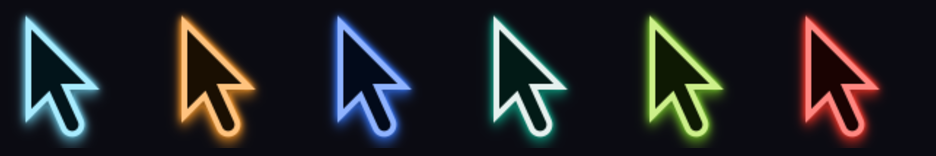
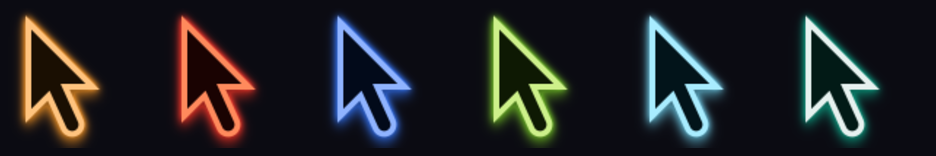
Dillinger reads red, not pink
Its highlight was #ff8781 — hue 3 degrees at 75% lightness, which is pink
whatever the hue says, and it carried into the terminal palette, the
wallpapers, the cursor and the wordmark on the poster and the splash.

A pale tint of a red always goes pink, so the highlight leans towards
orange as it lightens: #ff8a5c, hue 17, still clearly lighter than the
accent it sits against. That is remapped at the base colour rather than in
the palette file, so colors.toml and shell.toml follow it too.

The splash takes a vivid #ff2418 instead: even a warmed highlight is too
light to read as Dillinger's own colour on the boot screen.

diff --git a/tools/make-theme.py b/tools/make-theme.py
@@ -222,6 +222,7 @@ def build(name):
     out = THEMES_DIR / name
     out.mkdir(parents=True, exist_ok=True)
     mapping = palette_for(accent, contrast)
+    mapping.update(TINT.get(name, {}))
 
     for f in ("colors.toml", "shell.toml"):
         text = swap((BASE / f).read_text(), mapping)
@@ -283,6 +284,12 @@ BRAND = {"dillinger-systems": ("DILLINGER SYSTEMS", "dillinger-mark.svg")}
 # the triangle under the Dillinger wordmark's g, in an angular frame.
 SIGIL = {"dillinger-systems": "wedge"}
 
+# Base colours a theme remaps by hand, before anything is swapped, so the
+# change reaches the terminal and editor palettes too and not just the JSON.
+# A pale tint of a red reads pink, whatever its hue says, so Dillinger's
+# highlight leans towards orange as it lightens instead of washing out.
+TINT = {"dillinger-systems": {"#a8ecff": "#ff8a5c"}}
+
 # Palette keys a theme sets for itself, after the colour swap has run.
 # Uprising's highlight is the Renegade's cool white rather than a pale tint
 # of its jade, because that white against the jade is what the series looks
@@ -292,7 +299,10 @@ SIGIL = {"dillinger-systems": "wedge"}
 OVERRIDE = {"tron-uprising": {"accentHi": "#e6f1ef", "ink": "#04100e",
                               "splash": "#2fd0b0"},
             # The game's black is the system's own dark teal, not neutral.
-            "tron-2-0": {"accentHi": "#cdf08a", "ink": "#061513"}}
+            "tron-2-0": {"accentHi": "#cdf08a", "ink": "#061513"},
+            # Its mark boots in a vivid red rather than the highlight, which
+            # even warmed is too light to read as Dillinger's own colour.
+            "dillinger-systems": {"splash": "#ff2418"}}
 
 # The wordmark on a theme's poster — its preview card and its boot splash.
 # This is the name of the thing, which is not always the mark the desktop
